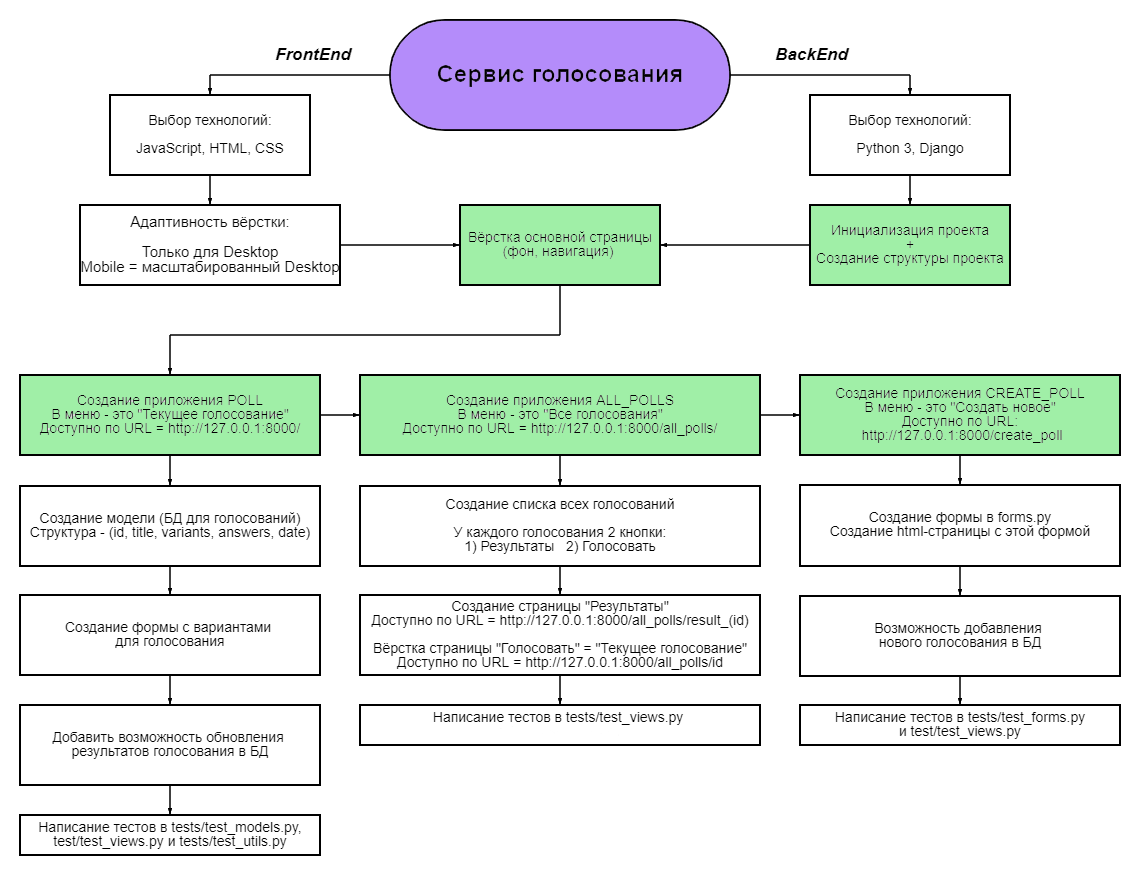
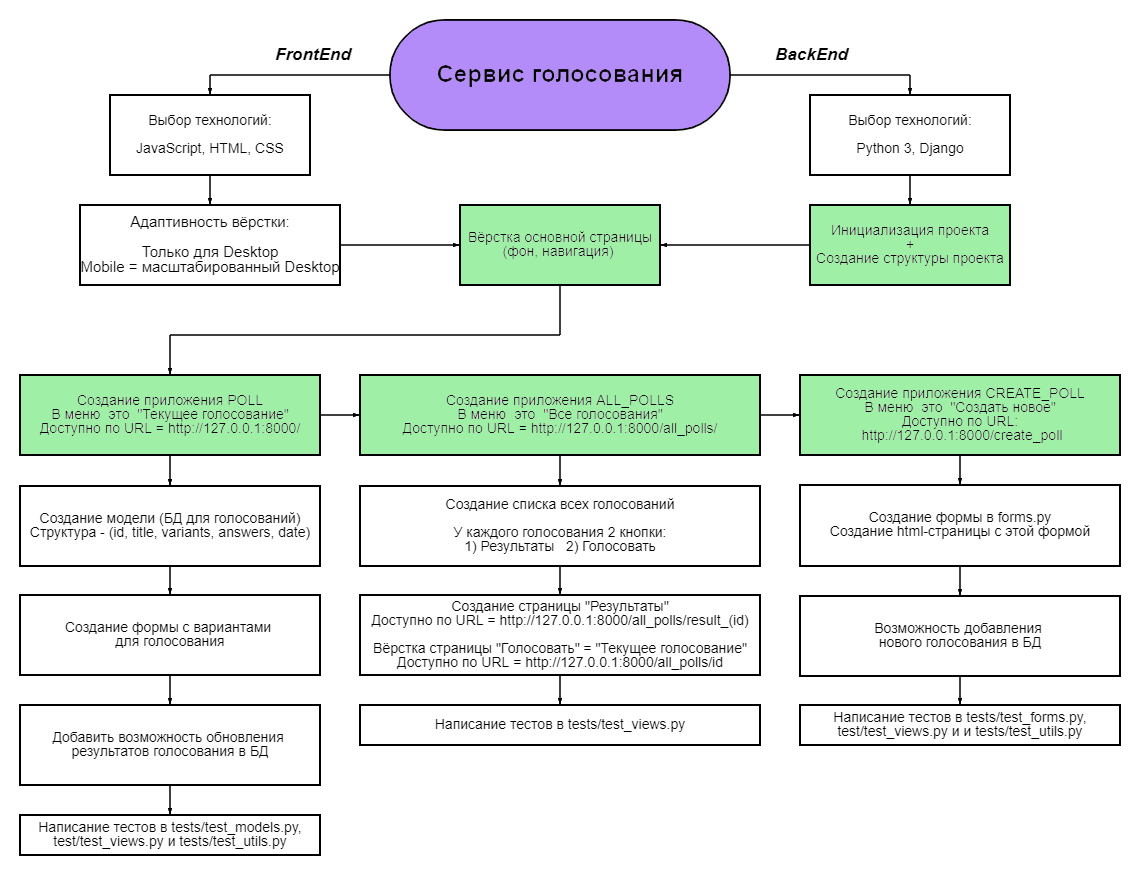
Дополнения и исправления

Changed region(s): [[0.7368, 0.8023, 0.9518, 0.864], [0.3684, 0.8023, 0.614, 0.8331], [0.0921, 0.4629, 0.1228, 0.4937]]

diff --git a/src/tests/test_utils.py b/src/tests/test_utils.py
@@ -3,7 +3,7 @@
 from django.test import TestCase
 from poll.templatetags.poll_split import split, split_space_for_result
 from poll.views import add_answer_increase
-from create_poll.views import delete_empty_variants
+from create_poll.views import delete_empty_variants, get_initial_answers
 
 class UtilsTest(TestCase):
     """ Тестирование вспомогательных функций (utils) """
@@ -26,3 +26,8 @@ class UtilsTest(TestCase):
         """ Тестирование функции, удаляющей пустые варианты голосования """
         self.assertEqual(delete_empty_variants('МГУ\nВШЭ\n\n\nМГТУ\n\n МФТИ\nМГИМО\n\n'),
                         'МГУ\nВШЭ\nМГТУ\nМФТИ\nМГИМО')
+
+    def test_get_initial_answers(self):
+        """ Тестирование функции, генерирующей начальное состояние ответов голосования """
+        self.assertEqual(get_initial_answers('МГУ\nВШЭ\nМГТУ\nМФТИ\nМГИМО'),
+                        '0 0 0 0 0')

diff --git a/src/poll/templatetags/poll_split.py b/src/poll/templatetags/poll_split.py
@@ -1,9 +1,12 @@
+""" Utils """
+
 from django import template
 
 register = template.Library()
 
 @register.filter(name='split')
 def split(value: str) -> list[str]:
+    """ Разделение строки вариантов на список """
     return value.split('\n')
 
 @register.filter
@@ -14,6 +17,6 @@ def split_space_for_result(value: str) -> list[str]:
 
     if sum_value_list > 0:
         value_list = list(map(lambda x: round((x / sum_value_list * 100), 1), value_list))
-        
+
     value_list = list(map(lambda x: str(x) + '%', value_list))
     return value_list

diff --git a/README.md b/README.md
@@ -56,5 +56,5 @@ Frontend написан с помощью HTML, CSS и JavaScript.
     * `db.sqlite3`
     * `manage.py`
 * `.gitignore`
-* `README.md` - 
+* `README.md`
 * `requirements.txt` - необходимые зависимости
